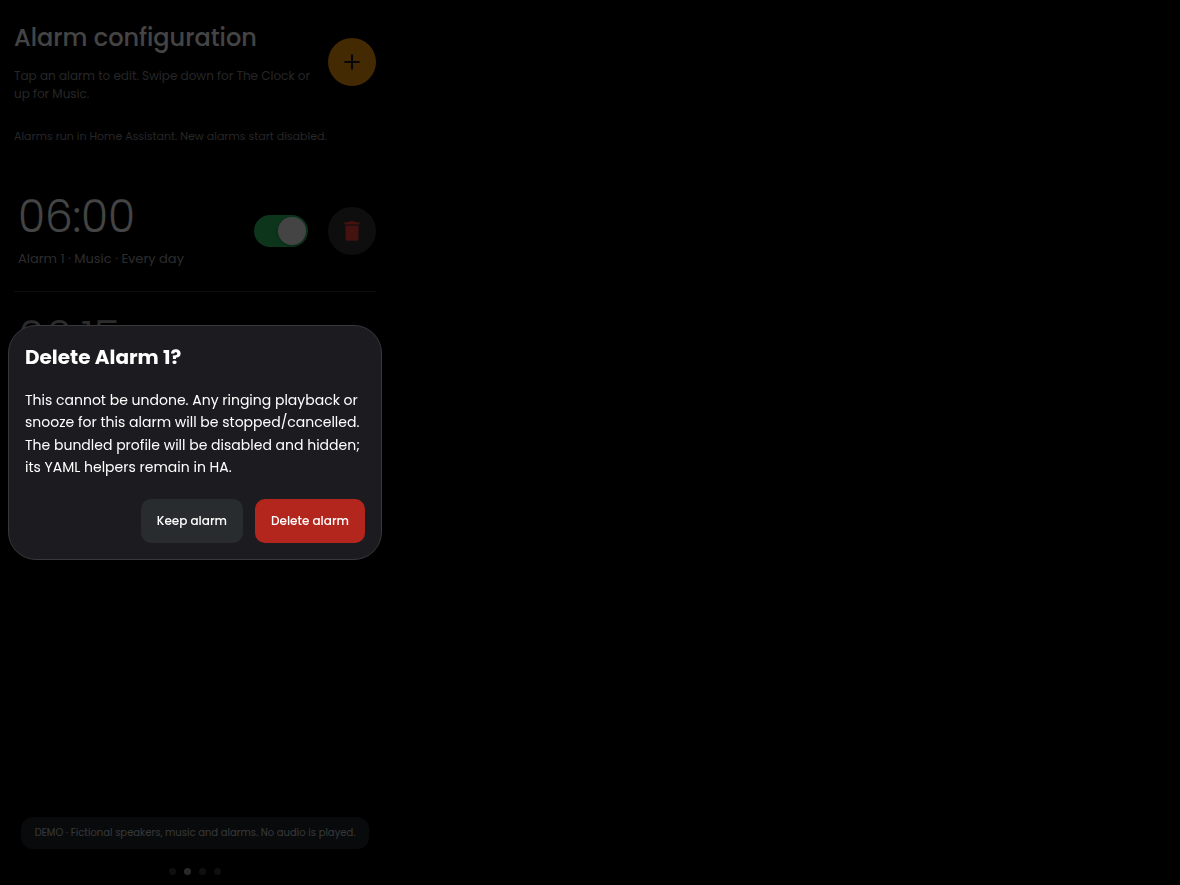
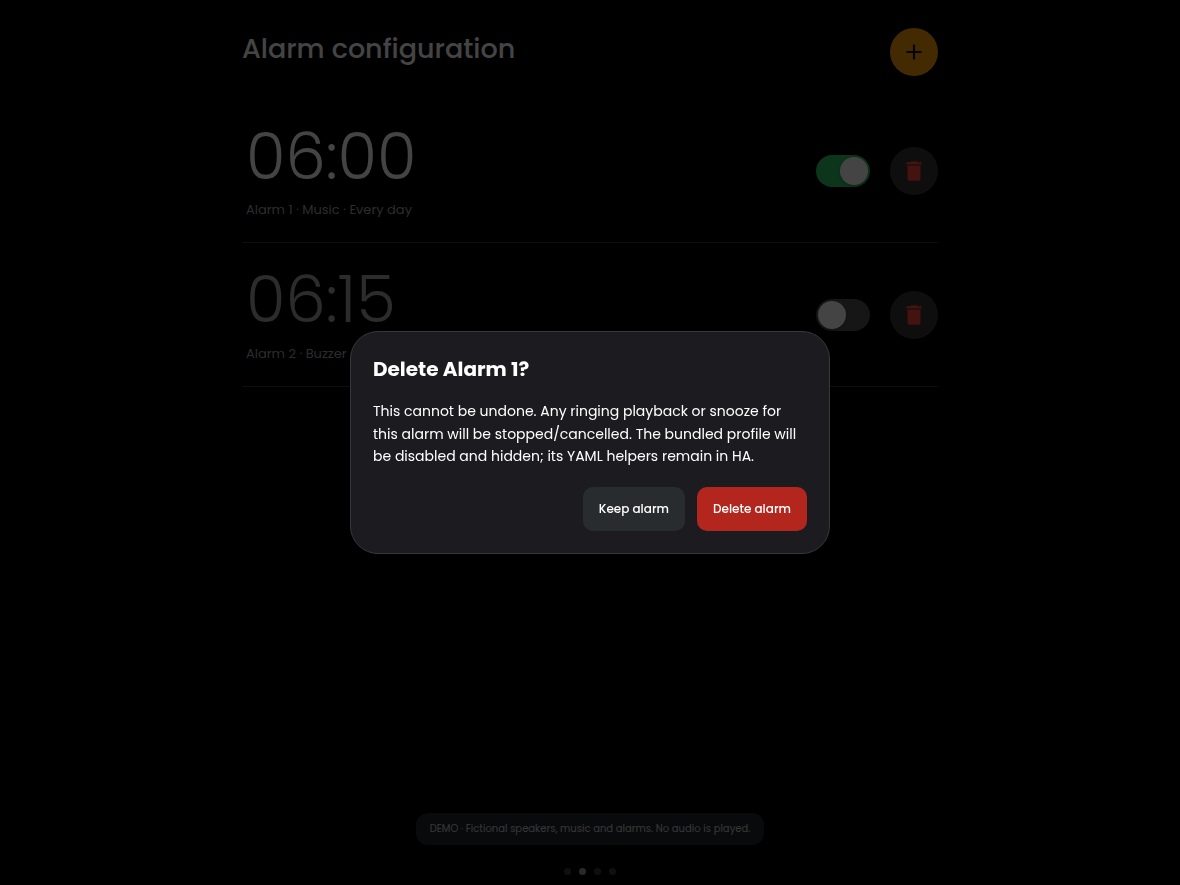
Remove introductory Alarm page hints (0.14.2)
Remove the two explanatory lines and their empty spacing without hiding actionable setup/deletion warnings or errors. Refresh the affected documentation screenshots.

diff --git a/clock-radio/app/web/js/pages/alarms.js b/clock-radio/app/web/js/pages/alarms.js
@@ -57,7 +57,7 @@ export function createAlarmPage(ctx) {
   let picker = null;
   const pageStatus = h("p", { class: "form-status", role: "alert" });
   const list = h("div", { class: "alarm-list" });
-  const addInfo = h("p", { class: "settings-hint" });
+  const addInfo = h("p", { class: "settings-hint", hidden: true });
   const add = h("button", { class: "alarm-icon-button alarm-icon-button--accent", type: "button", "aria-label": "Add alarm" }, icon("plus"));
   const stop = h("button", { class: "btn", type: "button" }, "Stop active alarm");
   stop.addEventListener("click", () => ctx.write("api/alarm/stop", {}));
@@ -395,7 +395,7 @@ export function createAlarmPage(ctx) {
   });
   const el = h("div", { class: "settings alarm-page" },
     h("header", { class: "settings-heading alarm-page__heading" },
-      h("div", null, h("h1", null, "Alarm configuration"), h("p", null, "Tap an alarm to edit. Swipe down for The Clock or up for Music.")), add),
+      h("h1", null, "Alarm configuration"), add),
     addInfo, pageStatus, list, stop, dialog, deleteDialog);
 
   function update(model, busy) {
@@ -442,9 +442,10 @@ export function createAlarmPage(ctx) {
     add.disabled = busy || !ctx.canControl() || !model.alarms.can_create || incomplete;
     addInfo.textContent = model.alarms.deleting ? "Finish the pending deletion before adding or deleting another alarm."
       : incomplete ? "Finish setting up the incomplete alarm before adding another."
-      : model.alarms.can_create ? "Alarms run in Home Assistant. New alarms start disabled."
+      : model.alarms.can_create ? ""
       : "Update the HA alarm package to the dynamic scheduler to enable Add alarm.";
     if (!model.alarms.can_delete) addInfo.textContent += " Delete requires the version 4 HA package and available deletion helpers/scripts.";
+    addInfo.hidden = !addInfo.textContent;
     stop.hidden = !model.alarms.active_player && !model.alarms.snoozed;
     stop.textContent = model.alarms.snoozed ? "Cancel snoozed alarm" : "Stop active alarm";
     stop.disabled = busy || !ctx.canControl() || !model.alarms.can_stop;

diff --git a/clock-radio/app/test/server.test.js b/clock-radio/app/test/server.test.js
@@ -59,7 +59,8 @@ test("HTTP foundation works end to end with HA, hot reload, error paths and ingr
   assert.match(js, /getJson\("api\/state"/);
   assert.match(js, /const PAGES = \{ clock: "The Clock", alarms: "Alarm configuration", music: "Music overview", settings: "Settings" \}/);
   const alarms = await (await fetch(`${url}/js/pages/alarms.js`)).text();
-  assert.match(alarms, /Swipe down for The Clock or up for Music/);
+  assert.doesNotMatch(alarms, /Tap an alarm to edit|Swipe down for|Alarms run in Home Assistant\. New alarms start disabled/);
+  assert.match(alarms, /addInfo\.hidden = !addInfo\.textContent/);
   const api = await (await fetch(`${url}/js/core/api.js`)).text();
   assert.match(api, /fetch\(`\.\/\$\{url\}`/);
   const styles = await fetch(`${url}/styles.css`);

diff --git a/clock-radio/app/web/styles.css b/clock-radio/app/web/styles.css
@@ -180,7 +180,6 @@ button:focus-visible, a:focus-visible, input:focus-visible, select:focus-visible
 }
 .alarm-page { --alarm-accent: #ff9f0a; max-width: 760px; }
 .alarm-page__heading { display: flex; align-items: center; justify-content: space-between; gap: 16px; }
-.alarm-page__heading p { margin-bottom: 0; }
 .alarm-icon-button { display: inline-flex; align-items: center; justify-content: center; width: 48px; height: 48px; flex: none; border-radius: 50%; background: #36363a; font-size: 26px; }
 .alarm-icon-button--accent { color: #181818; background: var(--alarm-accent); }
 .alarm-icon-button--danger { color: #ff453a; }

diff --git a/clock-radio/DOCS.md b/clock-radio/DOCS.md
@@ -36,7 +36,8 @@ described in the alarm package setup; these shared defaults are not editable
 in the app.
 
 Alarm configuration shows a compact list with large wake times and immediate
-enable switches. Tap an alarm to open its editor. Scroll the hour/minute wheels
+enable switches. Setup/deletion warnings appear only when action is needed.
+Tap an alarm to open its editor. Scroll the hour/minute wheels
 or use Arrow Up/Down, Home/End and Page Up/Down while a wheel is focused.
 The wheels follow the clock's 12/24-hour setting; 12-hour mode includes AM/PM.
 The displayed HA time zone always determines the schedule, not the tablet's zone.

diff --git a/clock-radio/CHANGELOG.md b/clock-radio/CHANGELOG.md
@@ -1,5 +1,11 @@
 # Changelog
 
+## 0.14.2
+
+- Remove the two explanatory lines above the Alarm list, while retaining
+  setup/deletion warnings, errors and alarm controls.
+- Refresh the affected Alarm documentation screenshots.
+
 ## 0.14.1
 
 - Use pure black for the shared app canvas and all four main-page backgrounds,
